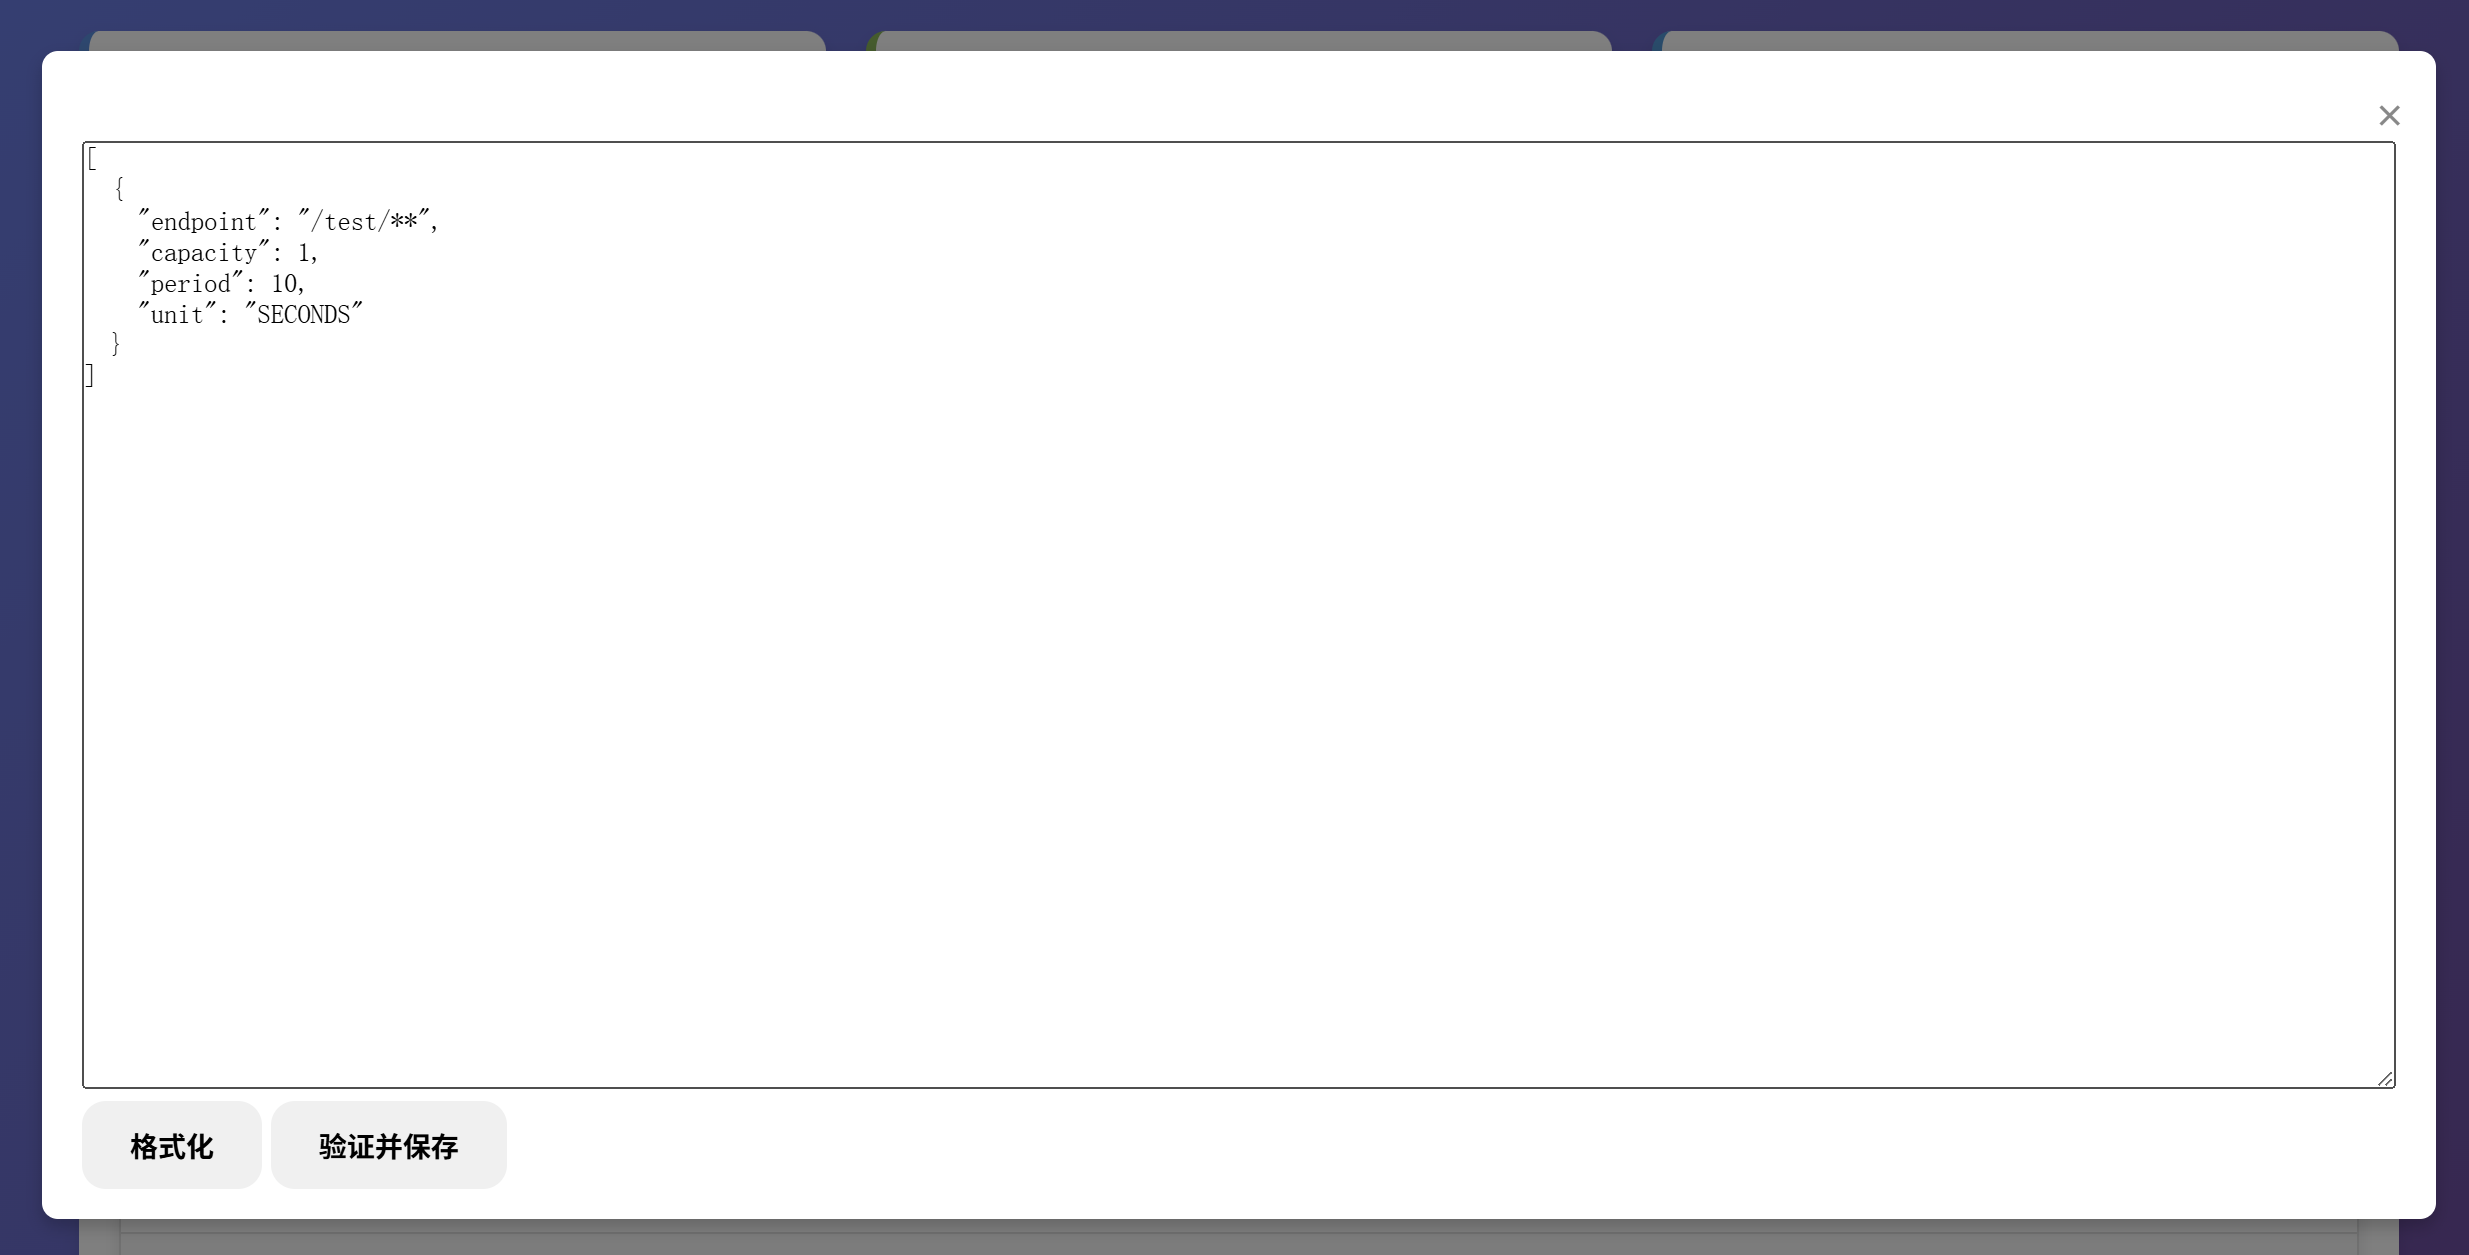
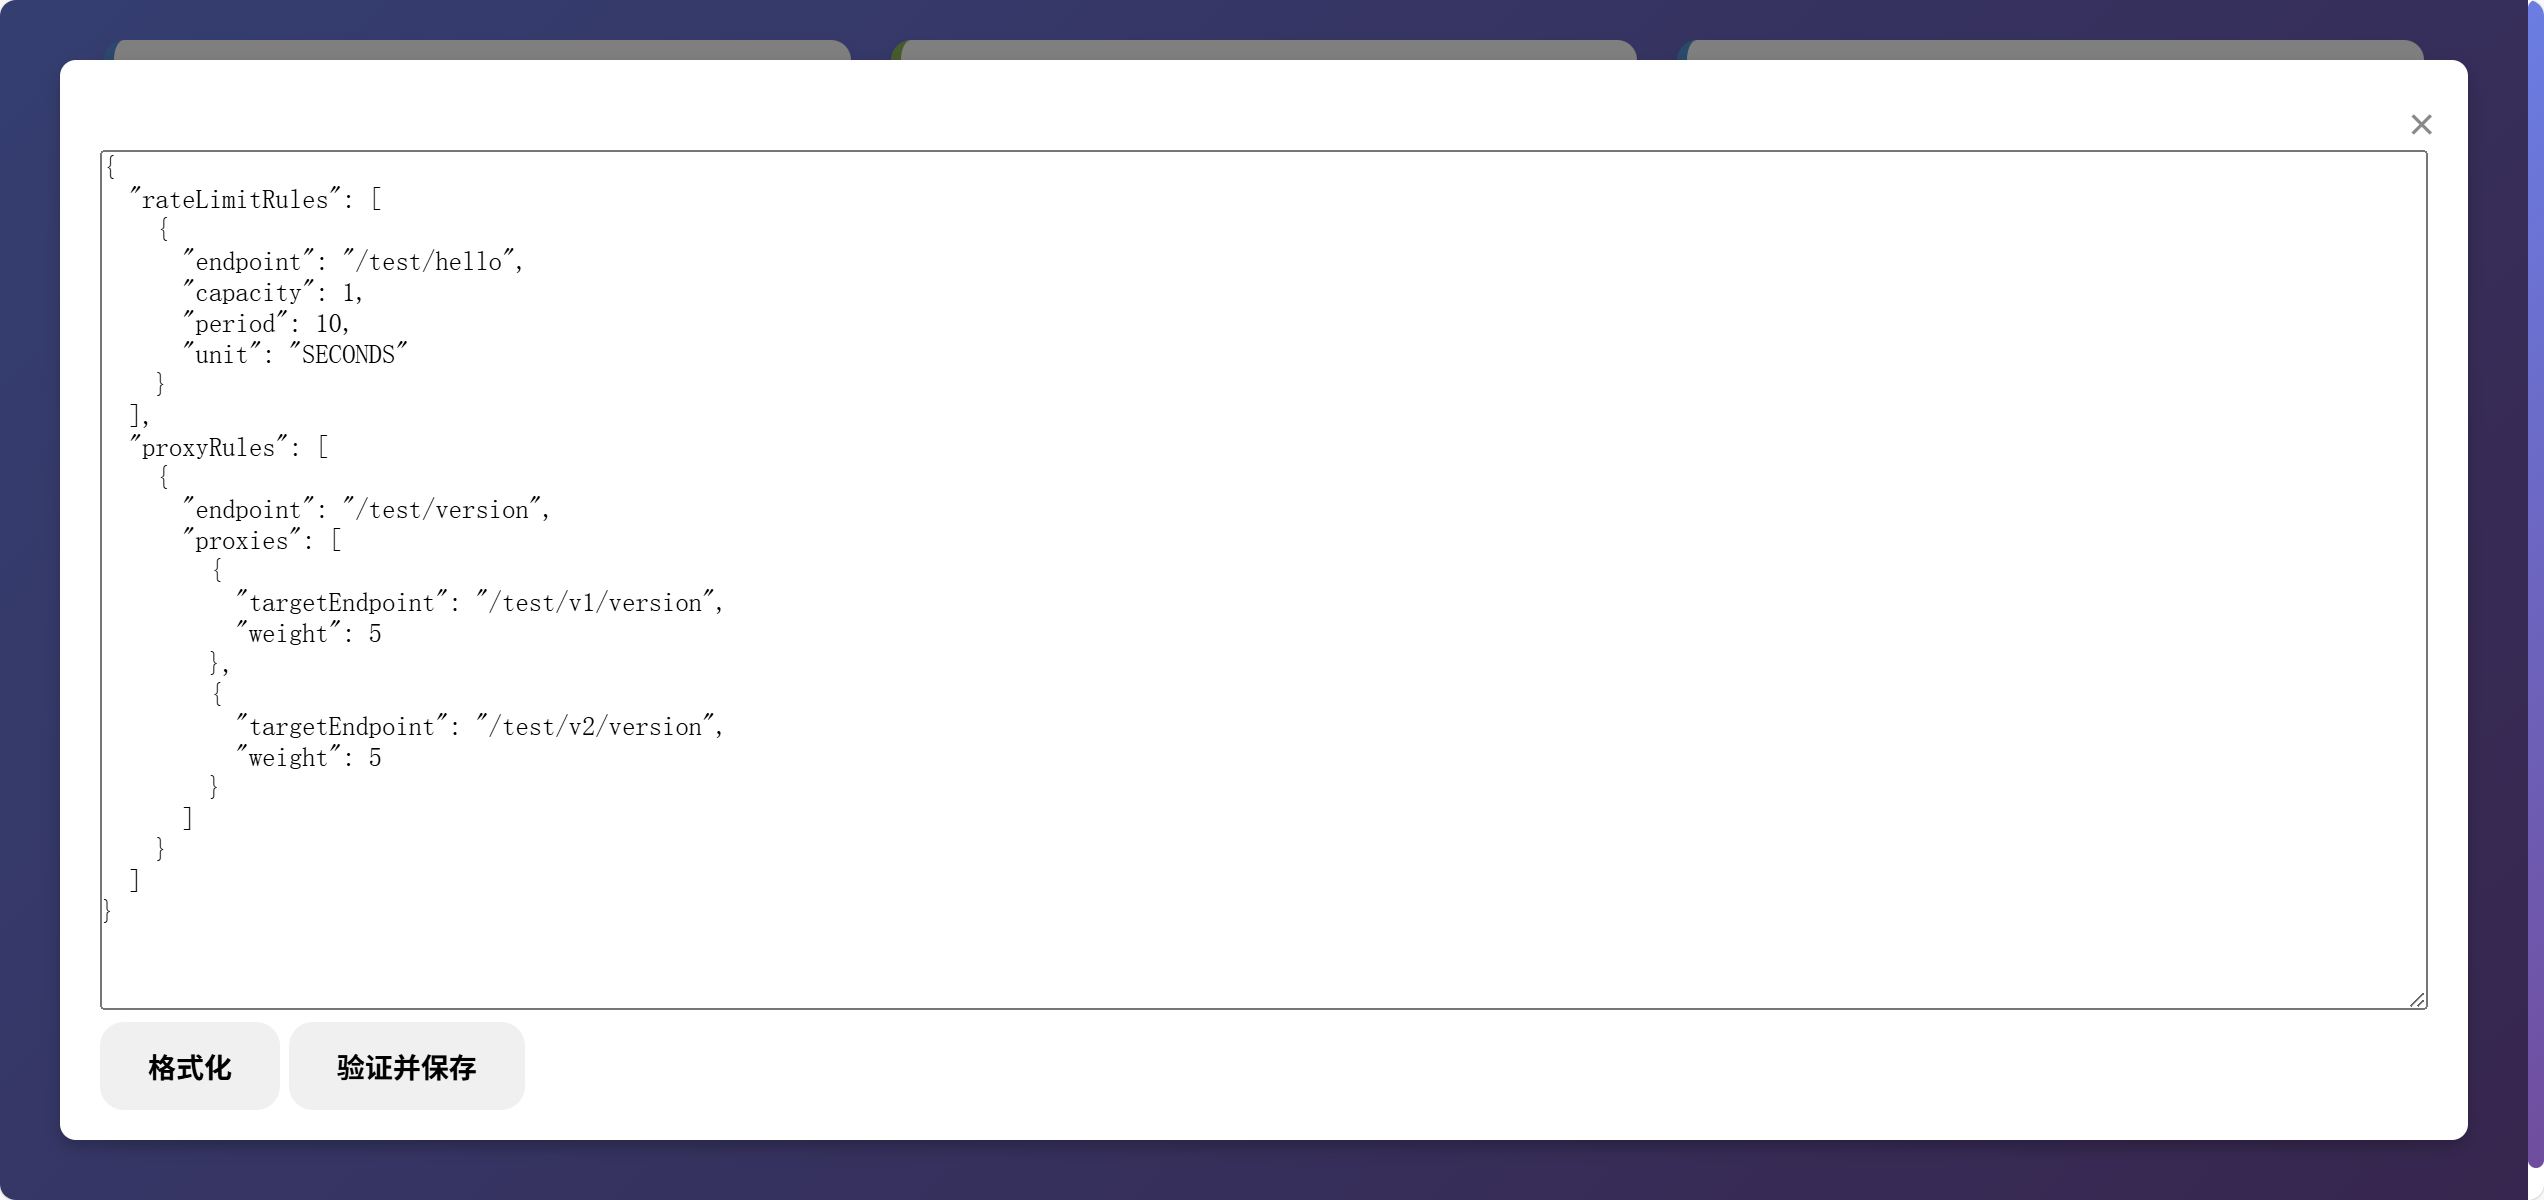
docs(README): 更新项目文档并更名为 Smart Router
- 项目名称从 "Rate Limiter 限流器" 更名为 "Smart Router巧路由"
- 更新了项目功能特性、配置示例和监控功能说明
- 新增了限流算法、Redis部署模式、动态路由规则管理等特性说明
-优化了配置结构，增加了限流规则和代理规则的详细配置示例
- 更新了监控页面访问路径

diff --git a/README.md b/README.md
@@ -158,16 +158,15 @@ smart-router:
 
 ## 监控功能
 
-项目提供了内置的监控页面，访问 `/rate/limiter/monitor/view` 查看监控页面
-
+项目提供了内置的监控页面，访问 `/smart/router/monitor/view` 查看监控页面
 ![img.png](img.png)
 ![img_1.png](img_1.png)
+
 
 ## 扩展性
 
 项目设计具有良好的扩展性：
-
-1. 可以通过实现[IFactory](rate-limiter\src\main\java\cn\wubo\rate\limiter\factory\IFactory.java#L6-L11)接口添加新的存储方式
-2. 可以通过实现[IRateLimiter](rate-limiter\src\main\java\cn\wubo\rate\limiter\bucket\IRateLimiter.java#L3-L9)接口添加新的限流算法
-3. 可以通过实现 [IStorage](rate-limiter\src\main\java\cn\wubo\rate\limiter\storage\IStorage.java#L4-L9) 接口来自定义存储
+1. 可以通过实现[IFactory.java](smart-router/src/main/java/cn/wubo/smart/router/factory/IFactory.java)接口添加新的存储方式
+2. 可以通过实现[IRateLimiter.java](smart-router/src/main/java/cn/wubo/smart/router/bucket/IRateLimiter.java)接口添加新的限流算法
+3. 可以通过实现接口[IStorage.java](smart-router/src/main/java/cn/wubo/smart/router/storage/IStorage.java)来自定义存储
 
